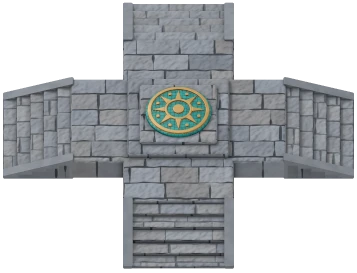
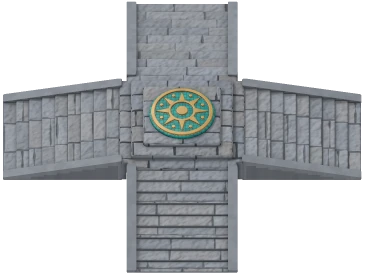
Mexica: the palace's stairs fill its arms down to the next space
Nine steps run from the raised middle to each arm space's edge. Risers
are smooth stone and treads lie in long slabs, so the cut stone's joints
no longer chop the steps up.

diff --git a/games/mexica-ui/src/lib/board/palaceLight.ts b/games/mexica-ui/src/lib/board/palaceLight.ts
@@ -40,6 +40,8 @@ const STONE = {
     cool: linear('#8f9aa8')
 }
 const COURSING: Coursing = { shortest: 10, longest: 16, row: 7, joint: 0.45, round: 0.9 }
+// A step's tread laid in long slabs.
+const TREADS: Coursing = { shortest: 13, longest: 20, row: 12.5, joint: 0.45, round: 0.9 }
 
 const BRONZE = { light: linear('#d6ab5e'), dark: linear('#6b4b22'), shine: 0.35 }
 const TURQUOISE = { light: linear('#2fb3ad'), dark: linear('#13706e'), grout: linear('#3a3226') }
@@ -99,7 +101,6 @@ function sunRelief(p: Vec): number {
 // The low sloping walls flanking each stair, as on the temples of Tenochtitlan.
 const WALL = { width: 3.2, above: 0.8, foot: 1.6 }
 const SIDE = CELL / 2 - PALACE.inset
-const REACH = 1.5 * CELL - PALACE.inset
 
 function stairWalls(p: Vec): number {
     const arms: [number, number][] = [
@@ -110,13 +111,13 @@ function stairWalls(p: Vec): number {
     ]
     const start = PALACE.flat - 1
     const top = PALACE.rise + WALL.above
-    const slope = (top - WALL.foot) / (REACH - start)
+    const slope = (top - WALL.foot) / (PALACE.reach - start)
     let distance = Infinity
     for (const [along, across] of arms) {
         if (along < start - 4) continue
         const box = roundedBox(
             [along, Math.abs(across), p[2]],
-            { x0: start, x1: REACH, y0: SIDE - WALL.width, y1: SIDE, z0: 0, z1: top },
+            { x0: start, x1: PALACE.reach, y0: SIDE - WALL.width, y1: SIDE, z0: 0, z1: top },
             0.5
         )
         const plane = (p[2] - (top - slope * (along - start))) / Math.hypot(1, slope)
@@ -199,11 +200,15 @@ export function renderPalace(tilt: number, pixels = PALACE_PIXELS): Bitmap {
         const part = hit.part
         if (part === undefined) return [{ color: [0, 0, 0], alpha: 0 }]
         const stair = part.material === 'stair'
-        const cut = cutStone(p, normal, part.block, parts.indexOf(part), COURSING)
+        // A step's riser is one smooth stone, in shade under its paler tread, so the stair reads.
+        if (stair && normal[2] <= 0.7) {
+            const riser = scale(mix(STONE.light, STONE.dark, clamp(0.4 + tone)), 0.72)
+            return [{ color: scale(riser, lit(p, normal, normal, scene)), alpha: 1 }]
+        }
+        const cut = cutStone(p, normal, part.block, parts.indexOf(part), stair ? TREADS : COURSING)
         const bent = cut === undefined ? normal : normalize(add(normal, cut.tip))
         let color = cut === undefined ? mix(STONE.light, STONE.dark, 0.4) : stoneColor(cut)
-        // Each step's tread paler and its riser in shade, so the stair reads.
-        if (stair) color = normal[2] > 0.7 ? mix(color, STONE.light, 0.3) : scale(color, 0.72)
+        if (stair) color = mix(color, STONE.light, 0.3)
         return [{ color: scale(color, lit(p, normal, bent, scene)), alpha: 1 }]
     }).bitmaps[0]
 }

diff --git a/games/mexica-ui/src/lib/board/palaceShape.ts b/games/mexica-ui/src/lib/board/palaceShape.ts
@@ -11,9 +11,12 @@ import { CELL, type Box } from './view.js'
 export const PALACE = {
     inset: 1.5,
     rise: 9,
-    // Where each arm's top ends and its stair begins, from the middle.
-    flat: 36,
-    steps: 5,
+    // Where each arm's top ends and its stair begins, from the middle: just past the raised
+    // square, so the stair fills the arm's space.
+    flat: 21,
+    steps: 9,
+    // Where each arm ends, from the middle.
+    reach: 1.5 * CELL - 0.3,
     centre: { half: 17, rise: 2, top: 13, above: 1.5 },
     emblem: { radius: 11, depth: 0.9, dome: 0.8, relief: 0.5 },
     // How round the edges of its stone and of its steps are worn.
@@ -24,18 +27,17 @@ export type PalaceMaterial = 'stone' | 'stair'
 export type PalacePart = { block: Block; round: number; material: PalaceMaterial }
 
 const SIDE = CELL / 2 - PALACE.inset
-const REACH = 1.5 * CELL - PALACE.inset
-const TREAD = (REACH - PALACE.flat) / PALACE.steps
-
 // The top of the stair `along` from the middle, on any arm.
 function stairTop(along: number): number {
-    if (along <= PALACE.flat) return PALACE.rise
-    const step = Math.min(PALACE.steps - 1, Math.floor((along - PALACE.flat) / TREAD))
-    return (PALACE.rise * (PALACE.steps - step)) / (PALACE.steps + 1)
+    const { flat, rise, reach, steps } = PALACE
+    if (along <= flat) return rise
+    const step = Math.min(steps - 1, Math.floor((along - flat) / ((reach - flat) / steps)))
+    return (rise * (steps - step)) / (steps + 1)
 }
 
 export function palaceParts(): PalacePart[] {
-    const { flat, steps, rise, centre, rounds } = PALACE
+    const { flat, steps, rise, centre, rounds, reach } = PALACE
+    const tread = (reach - flat) / steps
     const part = (block: Block, material: PalaceMaterial, round = rounds.stone) => ({
         block,
         material,
@@ -53,11 +55,11 @@ export function palaceParts(): PalacePart[] {
     const stairs = Array.from({ length: steps }, (_, step) =>
         turned(
             flat - 0.3,
-            flat + (step + 1) * TREAD,
+            flat + (step + 1) * tread,
             -SIDE,
             SIDE,
             0,
-            stairTop(flat + step * TREAD + 0.1)
+            stairTop(flat + step * tread + 0.1)
         )
     )
         .flat()
